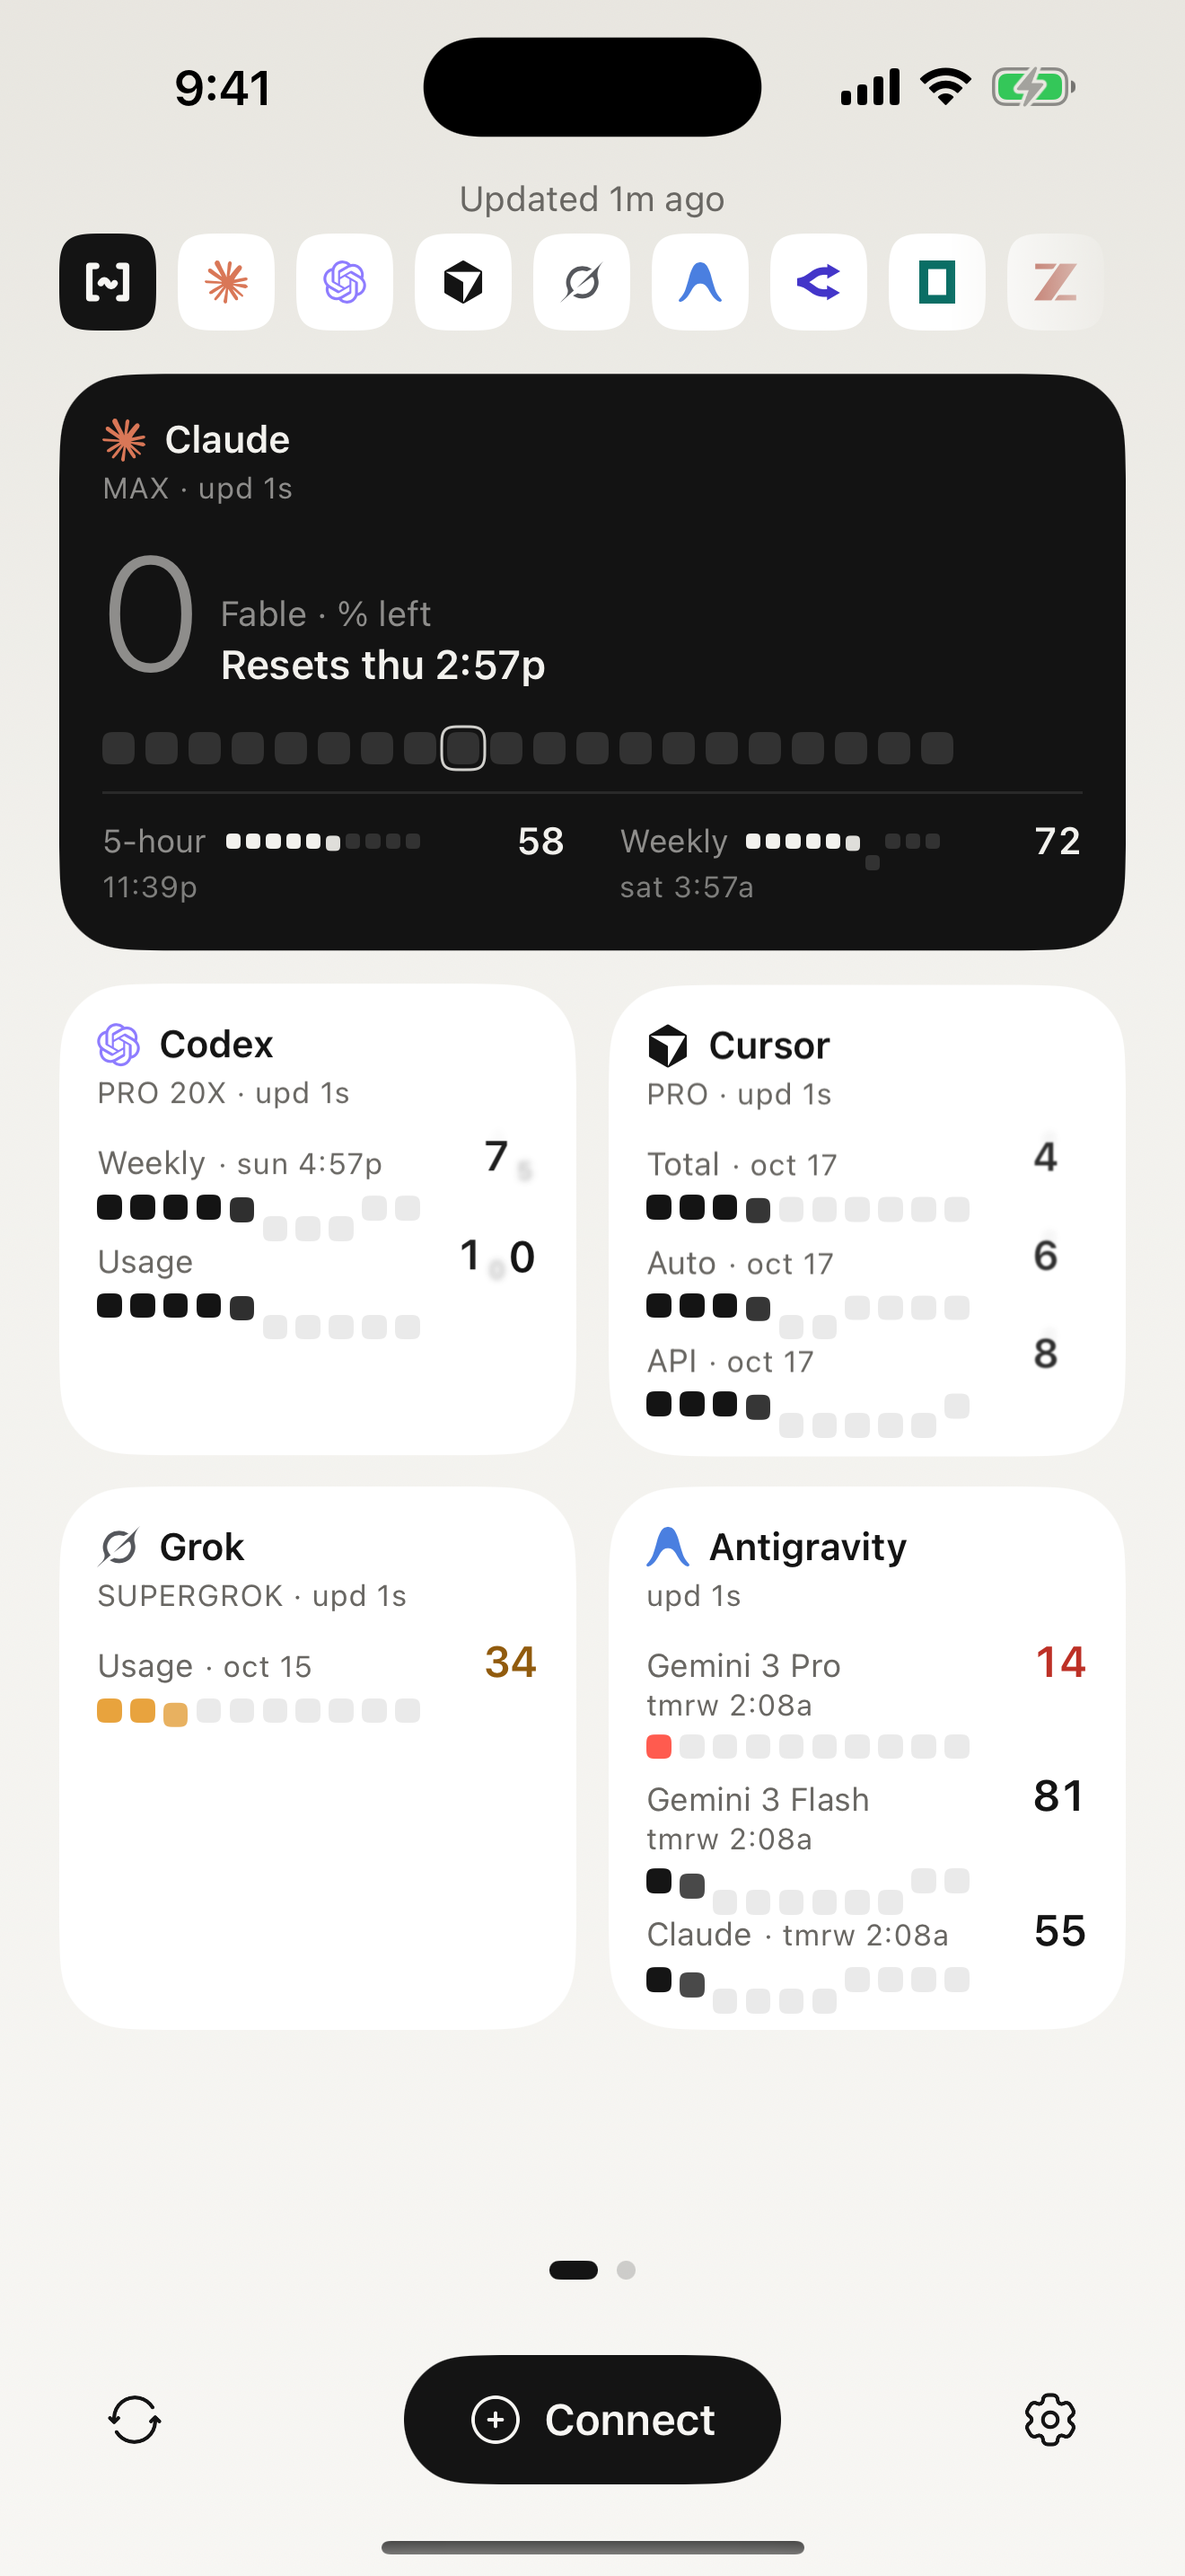
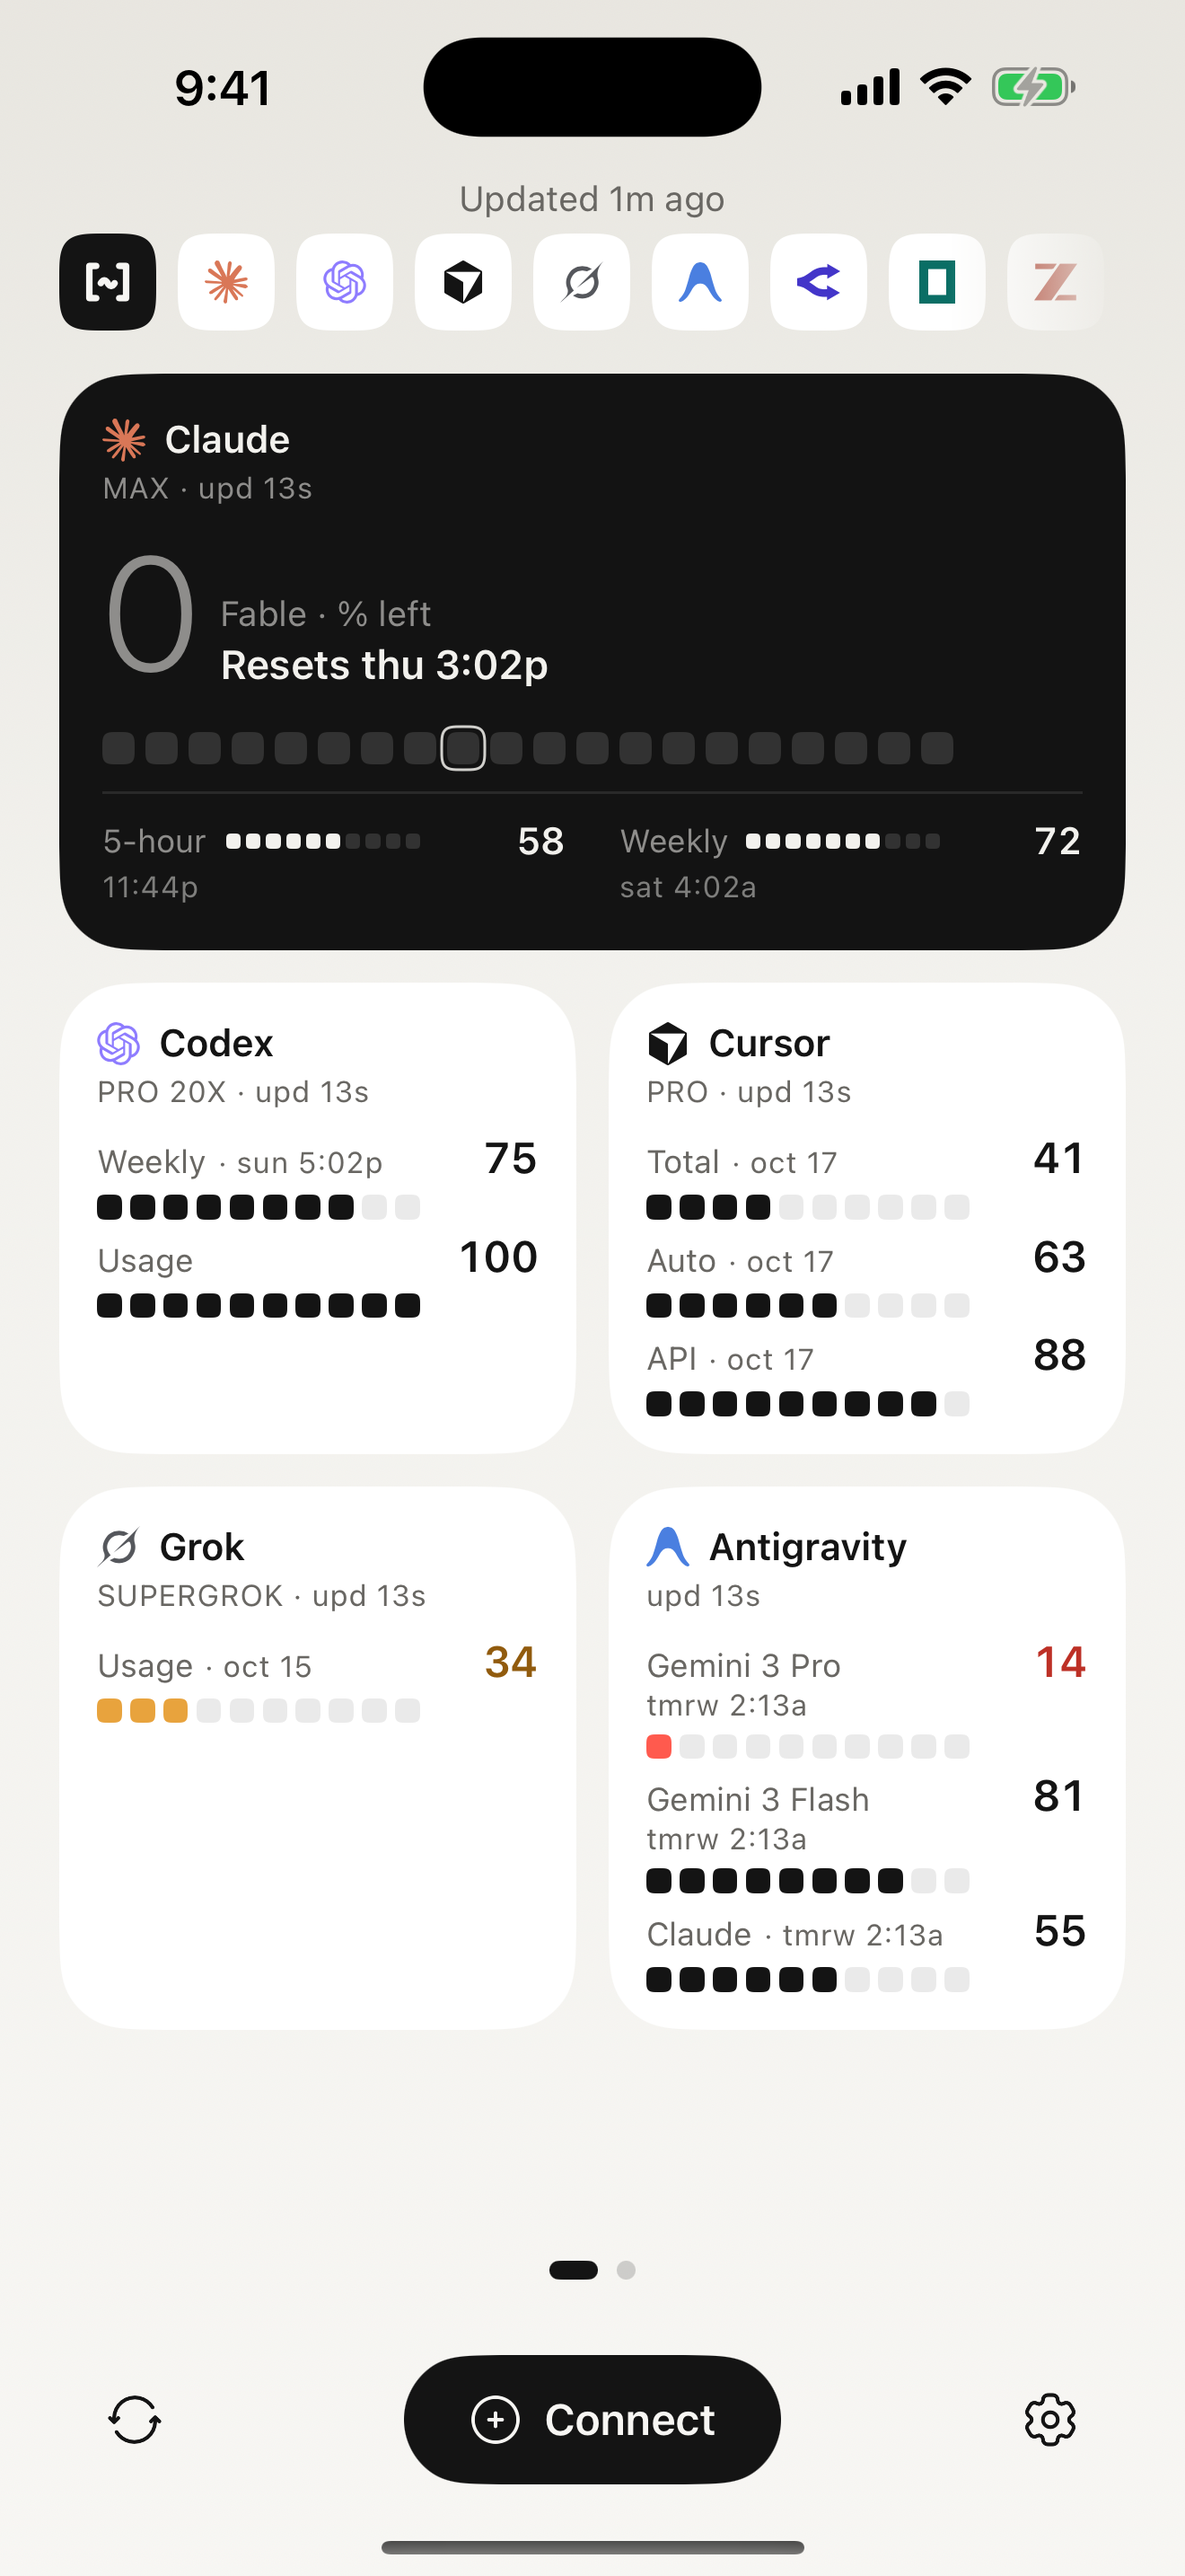
site: recapture the dashboard after the reveal settles
The previous capture caught the number roll and cell fill mid-animation
(Codex read "7" and "1 0"). This frame is taken 18 s after launch with
every number and meter final.

diff --git a/index.html b/index.html
@@ -437,7 +437,7 @@
     </div>
     <div class="hero-shot">
       <div class="phone">
-        <img src="assets/bento-shot-dashboard.png?v=20261005b" width="1320" height="2868"
+        <img src="assets/bento-shot-dashboard.png?v=20261005c" width="1320" height="2868"
              alt="Token Range dashboard with a 9-provider chip rail, a black Claude hero card with a 20-cell pace-ring meter, and white Codex, Cursor, Grok, and Antigravity tiles, each with grid-cell meters, sample data"
              fetchpriority="high">
       </div>
@@ -485,7 +485,7 @@
         </div>
         <div class="shot">
           <div class="phone">
-            <img src="assets/bento-shot-themes.png?v=20261005b" width="1320" height="2868"
+            <img src="assets/bento-shot-themes.png?v=20261005c" width="1320" height="2868"
                  alt="Token Range theme sheet showing light, house, LLM, and terminal skins grouped with PRO locks, canvas in use">
           </div>
         </div>
